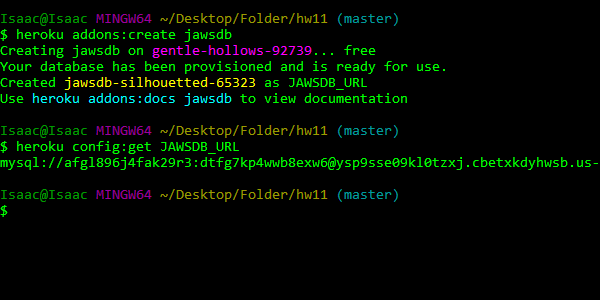
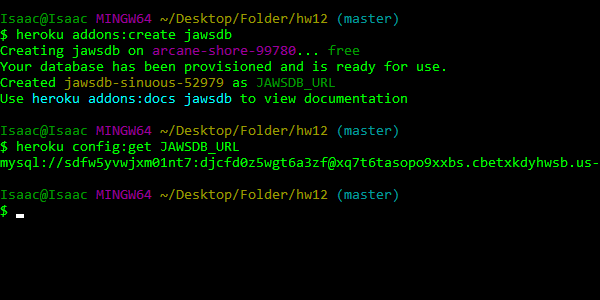
readme updated

diff --git a/homework/hw12/config/connection.js b/homework/hw12/config/connection.js
@@ -8,7 +8,7 @@
 const mysql = require("mysql");
 
 // Connect to MySQL
-const connection = mysql.createConnection({
+const pool = mysql.createPool({
     "connectionLimit"   : 10,
     "host"              : "xq7t6tasopo9xxbs.cbetxkdyhwsb.us-east-1.rds.amazonaws.com",
     "port"              : 3306,
@@ -27,12 +27,12 @@ const connection = mysql.createConnection({
     "database"          : "burgers_db",
     "multipleStatements": true
 });
-*/
 
 connection.connect(error => {
     if (error) throw error;
 
     console.log(`Database connected as thread ${connection.threadId}.`);
 });
+*/
 
-module.exports = connection;
+module.exports = pool;

diff --git a/homework/hw12/config/orm.js b/homework/hw12/config/orm.js
@@ -1,14 +1,14 @@
 const mysql = require("mysql");
 const path  = require("path");
 
-const connection = require(path.join(__dirname, "connection.js"));
+const pool = require(path.join(__dirname, "connection.js"));
 
 function addQuotes(x) {
     return (typeof x === "string") ? `"${x}"` : `${x}`;
 }
 
 function querySQL(sql_command, callback) {
-    connection.query(sql_command, (error, results) => {
+    pool.query(sql_command, (error, results) => {
         if (error) throw error;
 
         callback(results);

diff --git a/homework/hw12/README.md b/homework/hw12/README.md
@@ -43,7 +43,28 @@ Type `mkdir ../../../hw12; mv {.,}* ../../../hw12; cd ../../../hw12` to move `hw
 ![How to Run: Step 6b](readme/how_to_run_step6b.png?raw=true)
 
 
-
 ## How to Configure Database
 
 To use your own database, you will also need [MySQL Workbench](https://dev.mysql.com/downloads/workbench/).
+
+1. On Heroku, you can use either [ClearDB](https://devcenter.heroku.com/articles/cleardb) or [JawsDB](https://devcenter.heroku.com/articles/jawsdb). Both provide a free-tier option.
+
+For JawsDB, type `heroku addons:create jawsdb`, then `heroku config:get JAWSDB_URL` to find (in the order of appearance) your username, password, hostname, port number, and default schema.
+
+![How to Configure Database: Step 1](readme/how_to_configure_database_step1.png?raw=true)
+
+2. Open the file `app/data/friends.js` and change the values on lines 13 - 17.
+
+![How to Configure Database: Step 2](readme/how_to_configure_database_step2.png?raw=true)
+
+3. To seed your database, open MySQL Workbench and click Setup New Connection.
+
+![How to Configure Database: Step 3a](readme/how_to_configure_database_step3a.png?raw=true)
+
+Enter your username, hostname, port number, and default schema. Once you click on OK, you will be asked for the password.
+
+![How to Configure Database: Step 3b](readme/how_to_configure_database_step3b.png?raw=true)
+
+4. Finally, connect to your database and run `db/schema.sql` and `db/seeds.sql`.
+
+![How to Configure Database: Step 4](readme/how_to_configure_database_step4.png?raw=true)
